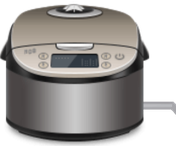
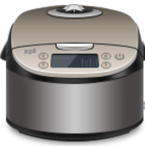
fix(⑨Tab2): 裁掉家电图右缘烤进去的小横线、插上的插头加沉孔暗影

diff --git a/src/lab/simple3d/BuilderSVG.jsx b/src/lab/simple3d/BuilderSVG.jsx
@@ -1571,6 +1571,17 @@ const BuilderSVG = forwardRef(function BuilderSVG({ wireColor }, ref) {
               title={c.plug ? '插在插座上（拖动可拔出）' : '拖动这只插头，插到插座的孔里'}
             >
               <svg width={PLUG_SIZE.w} height={PLUG_SIZE.h} viewBox="0 0 34 60">
+                <defs>
+                  <radialGradient id="esb-plug-recess" cx="50%" cy="46%" r="58%">
+                    <stop offset="55%" stopColor="rgba(15,23,42,.34)"/>
+                    <stop offset="100%" stopColor="rgba(15,23,42,0)"/>
+                  </radialGradient>
+                </defs>
+                {/* 插上时：先在插座面板上铺一圈"沉进孔里的暗影"，再把蛇头压上去 ——
+                    读作插头坐进插座的圆凹槽，而不是平贴在面上 */}
+                {c.plug && (
+                  <ellipse cx="17" cy="30" rx="18.5" ry="16.5" fill="url(#esb-plug-recess)" />
+                )}
                 {/* 蛇头（照用户给的特写）：圆角三角形头 + 底部罗纹颈；插上时（.on）不画正面三道白标，
                     那会儿看到的是插头背面、脚已经在孔里，配合 CSS 投影就"插进去了" */}
                 <path d={PLUG_HEAD} fill="#3b4048" stroke="#20242a" strokeWidth=".9"/>

diff --git a/器材1比1还原_改造计划_2026-11-11.md b/器材1比1还原_改造计划_2026-11-11.md
@@ -1527,3 +1527,5 @@ CSS 改 `.esb-wirelayer z-index:2`（原 3）、`.esb-partlayer z-index:3`（原
 **导线遮挡复核**：z 序仍是 `wirelayer z2 < partlayer z3`（§8.30 ⑤），本轮长距离接线（空开→两只插座）截图确认导线从插座、空开背后穿过；柱脚铜丝在最上层是对的（真导线就是绕在柱脚上）。
 
 回归：`npm run lint` 0 error / 317 warning；`npm run test:run` 9 文件 123 项通过；`scripts/shot-home.cjs` 适配（器材改「三孔插座×2」、`pick` 改读 `data-comp-type`、`holeOfIdx`、8 条接线、去掉「三脚插不进两孔」用例），实测 `plugsOn=2`、`✅ 交流 220 V 接通 · 电饭煲 + 电热水壶 并联 … 合计 2273 W`、分闸 `⚠ 开关断开 · 电路不通`、errors: none。
+
+**补记（同日）②的延伸**：家电整机图 PNG 本身右缘就烤了一条"小横线"（洗衣机 188→167、电饭煲 176→145、电暖器 170→144，按 alpha 逐列量出厚实主体列后裁掉；水壶无此线），代码里的 `stub` 删了但图里那条还在，所以一并裁掉，线现在直接从机身长出来。另给插上的插头加了一圈沉入孔的暗影（`esb-plug-recess` 径向渐变），配合 `.esb-plug.on` 投影，读作"坐进插座"而不是平贴在面板上。
